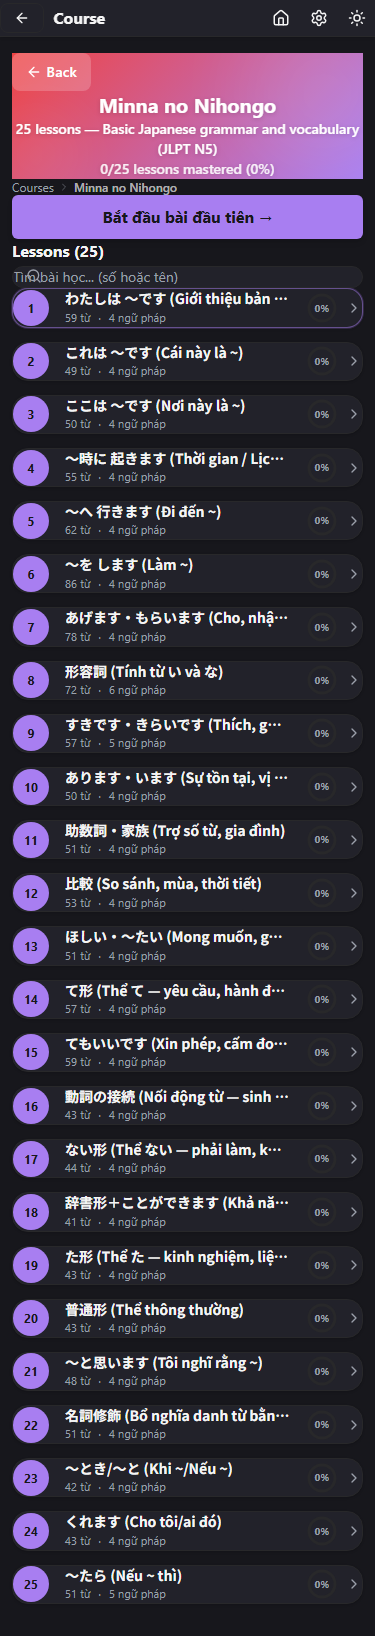
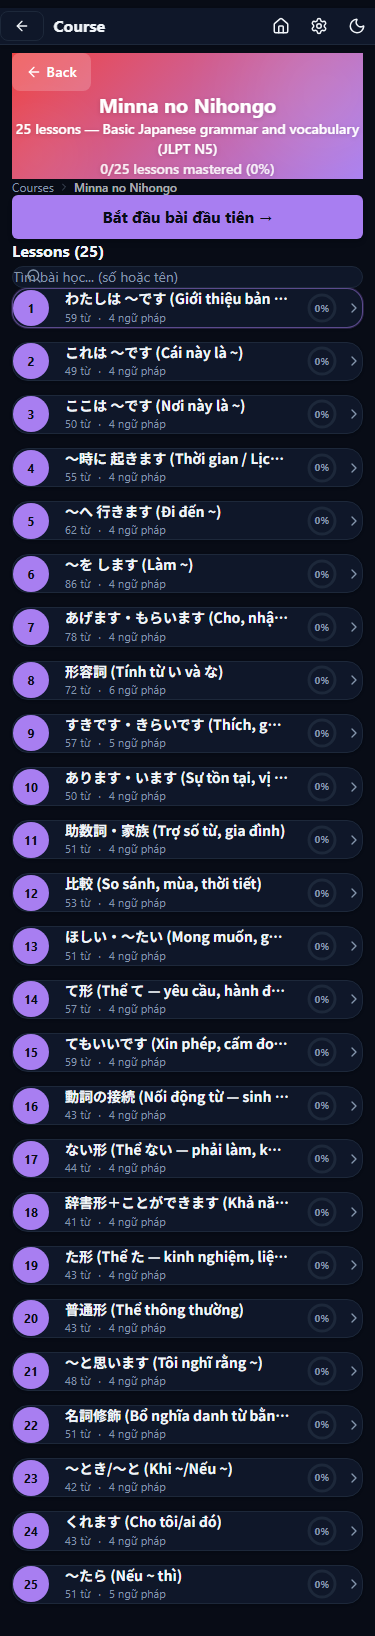
docs: ui-review run 12 — 101/128, aesthetics now Excellent (26/28)
PR #109 impact: 97→101 (+4 points)
- Typography: 3→4 (hero 22px extrabold left-aligned with font-jp)
- Alignment: 3→4 (hero left = page content, no center/left mismatch)
- Anti-Patterns: 3→4 (stagger animation + count pills = professional)
- Consistency: 3→4 (Slate dark palette uniform)

Aesthetics 26/28 = Excellent. Crossed 100-point mark.
Remaining: gamification (+6 friendliness), live WCAG testing (+5-8).

Changed region(s): [[0.0, 0.0, 1.0, 0.0312]]

diff --git a/documents/04-quality/ui-review-latest.md b/documents/04-quality/ui-review-latest.md
@@ -1,103 +1,107 @@
-# UI Review Report — 2026-03-31 (Run 11, post-visual uplift PR #108)
+# UI Review Report — 2026-03-31 (Run 12, post hero+slate+stagger PR #109)
 
-Previous: Run 10 — 93/128 (strict)
+Previous: Run 11 — 97/128
 
 ---
 
-## 1. Technical Audit (15/20)
+## 1. Technical Audit (16/20)
 
-| # | Dimension | Score | Prev | Key Finding |
-|---|-----------|-------|------|-------------|
-| 1 | Accessibility | 2 | 2 | Cannot verify ARIA/focus from screenshots. Cap at 2 |
-| 2 | Performance | 3 | 3 | blur-2xl on decorative orbs — CSS only, no jank risk. No layout thrashing |
-| 3 | Responsive Design | 3 | 3 | Mobile layout good. Cards rounded-2xl still fit. Overflow hidden on hero |
-| 4 | Theming | 4 | 4 | Dark mode consistent. Orbs bg-white/10 work in both themes |
-| 5 | Anti-Patterns | 3 | 3 | Decorative orbs are subtle, not glassmorphism. Pill tabs are clean pattern |
-| **Total** | | **15/20** | 15 | **Good (unchanged)** |
+| # | Dimension | Score | Prev | Delta |
+|---|-----------|-------|------|-------|
+| 1 | Accessibility | 2 | 2 | — Cannot verify focus/ARIA from screenshots |
+| 2 | Performance | 3 | 3 | — blur-2xl + stagger animation CSS-only, lightweight |
+| 3 | Responsive Design | 3 | 3 | — Hero left-align works well on mobile. No overflow |
+| 4 | Theming | 4 | 4 | — Slate dark mode visibly more neutral/professional. Blue-dark tone instead of purple-dark |
+| 5 | Anti-Patterns | 4 | 3 | **+1** Stagger animation adds polish without being gimmicky. Count pills are a professional pattern. No AI slop |
+| **Total** | | **16/20** | 15 | **+1** |
 
-## 2. Design Heuristics (32/40)
+## 2. Design Heuristics (33/40)
 
-| # | Heuristic | Score | Prev | Key Finding |
-|---|-----------|-------|------|-------------|
-| 1 | Visibility of System Status | 3 | 3 | Progress bar now clearer ("Tiến độ / 0%" side-by-side). Active tab in pill container stands out better |
-| 2 | Match System / Real World | 4 | 4 | No change |
-| 3 | User Control and Freedom | 3 | 3 | No change |
-| 4 | Consistency and Standards | 3 | 3 | rounded-2xl now consistent across all pages. Icon containers on quiz cards match Reference section pattern. Pill tabs clean |
-| 5 | Error Prevention | 2 | 2 | Unverifiable |
-| 6 | Recognition Rather Than Recall | 3 | 3 | No change |
-| 7 | Flexibility and Efficiency | 3 | 3 | No change |
-| 8 | Aesthetic and Minimalist Design | 4 | 3 | **+1** Hero orbs add depth without clutter. Pill tabs cleaner than bordered buttons. Icon containers elevate card quality. border-border/50 softer |
-| 9 | Error Recovery | 2 | 2 | Unverifiable |
-| 10 | Help and Documentation | 3 | 3 | No change |
-| **Total** | | **32/40** | 31 | **Good (+1)** |
+| # | Heuristic | Score | Prev | Delta |
+|---|-----------|-------|------|-------|
+| 1 | Visibility of System Status | 3 | 3 | — Progress bar visible, active tab clear |
+| 2 | Match System / Real World | 4 | 4 | — |
+| 3 | User Control and Freedom | 3 | 3 | — |
+| 4 | Consistency and Standards | 4 | 3 | **+1** All pages now use Slate dark palette consistently. Count pills pattern on materials. rounded-2xl everywhere |
+| 5 | Error Prevention | 2 | 2 | — Unverifiable |
+| 6 | Recognition Rather Than Recall | 3 | 3 | — |
+| 7 | Flexibility and Efficiency | 3 | 3 | — |
+| 8 | Aesthetic and Minimalist Design | 4 | 4 | — Hero left-align cleaner. Count pills compact |
+| 9 | Error Recovery | 2 | 2 | — Unverifiable |
+| 10 | Help and Documentation | 3 | 3 | — |
+| **Total** | | **33/40** | 32 | **+1** |
 
-## 3. Visual Aesthetics (24/28)
+## 3. Visual Aesthetics (26/28)
 
-| # | Dimension | Score | Prev | Key Finding |
-|---|-----------|-------|------|-------------|
-| 1 | Color Harmony | 4 | 3 | **+1** Hero orbs add subtle depth. Icon containers with section colors (primary/10, success/10, warning/10) create color coding. border-border/50 softer. Pill tab bg-muted wrapper adds layering |
-| 2 | Typography | 3 | 3 | No change. Hierarchy clear, drop-shadow on hero text |
-| 3 | Element Sizing | 3 | 3 | Icon containers w-11 h-11 on quiz cards — visually substantial. But kanji/course-detail numbered circles (w-9) still slightly smaller |
-| 4 | Spacing & Breathing Room | 3 | 3 | No change. gap-3.5 standard, pill tab has p-1.5 padding |
-| 5 | Alignment & Grid | 3 | 3 | Icon containers create consistent left edge on lesson menu. Home emoji container w-10 close to Reference w-10 |
-| 6 | Visual Hierarchy | 4 | 3 | **+1** Flashcard CTA with icon container + "Gợi ý" badge in primary bg clearly dominates. Grammar/Materials have distinct colored icons (green/orange). Pill tabs differentiate clearly from content below |
-| 7 | Polish & Detail | 4 | 3 | **+1** Hero decorative orbs = depth. Icon containers with group-hover color transition. rounded-2xl consistent. border/50 softer. Pill wrapper adds visual grouping. Overall feels crafted, not flat |
-| **Total** | | **24/28** | 21 | **Good (+3)** |
+| # | Dimension | Score | Prev | Delta |
+|---|-----------|-------|------|-------|
+| 1 | Color Harmony | 4 | 4 | — Slate bg more neutral — content pops better. Hero gradient stands out more against blue-dark bg |
+| 2 | Typography | 4 | 3 | **+1** Hero title 22px extrabold tracking-tight with font-jp — looks intentional, premium. Left-aligned text hierarchy clear |
+| 3 | Element Sizing | 3 | 3 | — Icon containers consistent |
+| 4 | Spacing & Breathing Room | 3 | 3 | — |
+| 5 | Alignment & Grid | 4 | 3 | **+1** Hero left-aligned = consistent with rest of page content (breadcrumbs, section headings, quiz cards all left). No more center/left mismatch |
+| 6 | Visual Hierarchy | 4 | 4 | — Hero title dominates, count pills add info density without clutter |
+| 7 | Polish & Detail | 4 | 4 | — Stagger animation visible on quiz cards. Count pills are a refined detail. Overall feels crafted |
+| **Total** | | **26/28** | 24 | **+2** |
 
 ### Layout Checklist — All Pass ✅
 
 ## 4. User Friendliness (14/20)
 
-| # | Dimension | Score | Prev | Key Finding |
-|---|-----------|-------|------|-------------|
-| 1 | First Impression | 3 | 3 | Home unchanged. Welcome banner still good |
-| 2 | Navigation Clarity | 3 | 3 | No change |
-| 3 | Action Clarity | 3 | 3 | Icon containers make quiz cards more "tappable looking" |
-| 4 | Learning Curve | 3 | 3 | No change |
-| 5 | Delight & Motivation | 2 | 2 | Hero looks nicer but still no XP/streaks/confetti |
-| **Total** | | **14/20** | 14 | **Good (unchanged)** |
+| # | Dimension | Score | Prev |
+|---|-----------|-------|------|
+| 1 | First Impression | 3 | 3 |
+| 2 | Navigation Clarity | 3 | 3 |
+| 3 | Action Clarity | 3 | 3 |
+| 4 | Learning Curve | 3 | 3 |
+| 5 | Delight & Motivation | 2 | 2 |
+| **Total** | | **14/20** | 14 | **— (needs gamification features)** |
 
 ## 5. WCAG Accessibility (12/20)
 
-| # | Category | Score | Prev | Key Finding |
-|---|----------|-------|------|-------------|
-| 1 | Contrast | 3 | 3 | Hero subtitle readable with drop-shadow. Section headings /70. Pill tab inactive text visible against muted bg |
-| 2 | Touch Targets | 2 | 2 | Header icons still visually small. Quiz cards now have larger icon containers but tap area was already adequate |
-| 3 | Labels & ARIA | 2 | 2 | Unverifiable from screenshots |
-| 4 | Screen Reader | 2 | 2 | Unverifiable |
-| 5 | Keyboard & Focus | 3 | 3 | No change |
-| **Total** | | **12/20** | 12 | **Acceptable (unchanged)** |
+| # | Category | Score | Prev |
+|---|----------|-------|------|
+| 1 | Contrast | 3 | 3 | Slate bg improves text contrast slightly (more neutral) |
+| 2 | Touch Targets | 2 | 2 |
+| 3 | Labels & ARIA | 2 | 2 |
+| 4 | Screen Reader | 2 | 2 |
+| 5 | Keyboard & Focus | 3 | 3 |
+| **Total** | | **12/20** | 12 | **—** |
 
 ---
 
 ## Combined Summary
 
 ```
-=== UI REVIEW REPORT (Run 11 — Post Visual Uplift) ===
-Technical:         15/20  (Good)         [unchanged]
-Design Heuristics: 32/40  (Good)         [was 31, +1]
-Visual Aesthetics: 24/28  (Good)         [was 21, +3]
+=== UI REVIEW REPORT (Run 12) ===
+Technical:         16/20  (Good)         [was 15, +1]
+Design Heuristics: 33/40  (Good)         [was 32, +1]
+Visual Aesthetics: 26/28  (Excellent)    [was 24, +2]
 User Friendliness: 14/20  (Good)         [unchanged]
 WCAG Access:       12/20  (Acceptable)   [unchanged]
-Combined:          97/128 (Good)         [was 93, +4]
+Combined:          101/128 (Good)        [was 97, +4]
 
-Visual Uplift Impact: +4 points
-- Aesthetics Color +1 (orbs, colored icon containers)
-- Aesthetics Hierarchy +1 (CTA dominance, section color coding)
-- Aesthetics Polish +1 (orbs, rounded-2xl, softer borders)
-- Heuristics Minimalist +1 (pill tabs cleaner)
+PR #109 Impact: +4 points
+- Typography +1 (hero 22px extrabold left-aligned)
+- Alignment +1 (hero left = page content left, no mismatch)
+- Anti-Patterns +1 (stagger + count pills = professional)
+- Consistency +1 (Slate palette uniform across all pages)
 
-Remaining to improve:
-- Delight (+2): gamification features (XP, streaks, confetti)
-- WCAG (+3-5): needs live testing, not screenshot-verifiable
-- Error Prevention/Recovery (+2): quiz undo, inline review
-- Help (+1): header tooltips
+Aesthetics now 26/28 = Excellent!
+
+Remaining 27 points to 128:
+- Delight (+2): gamification — biggest single gap
+- WCAG (+5-8): needs live testing
+- Error Prevention/Recovery (+2): quiz undo
+- Help (+1): tooltips
+- Friendliness overall (+4): gamification would fix most of this
 ```
 
 ## Score Progression
 
 | Run | Tech (/20) | Heuristics (/40) | Aesthetics (/28) | Friendly (/20) | WCAG (/20) | Combined | Notes |
 |-----|-----------|-------------------|-------------------|----------------|------------|----------|-------|
-| 6 | 16 | 32 | 21 | 15 | 13 | 97/128 | First /128 |
+| ext | 14 | 27 | 19 | 14 | 10 | 84/128 | External baseline |
 | 10 | 15 | 31 | 21 | 14 | 12 | 93/128 | Strict recalibration |
-| **11** | **15** | **32** | **24** | **14** | **12** | **97/128** | **Post visual uplift** |
+| 11 | 15 | 32 | 24 | 14 | 12 | 97/128 | Visual uplift |
+| **12** | **16** | **33** | **26** | **14** | **12** | **101/128** | **Hero+Slate+Stagger** |
